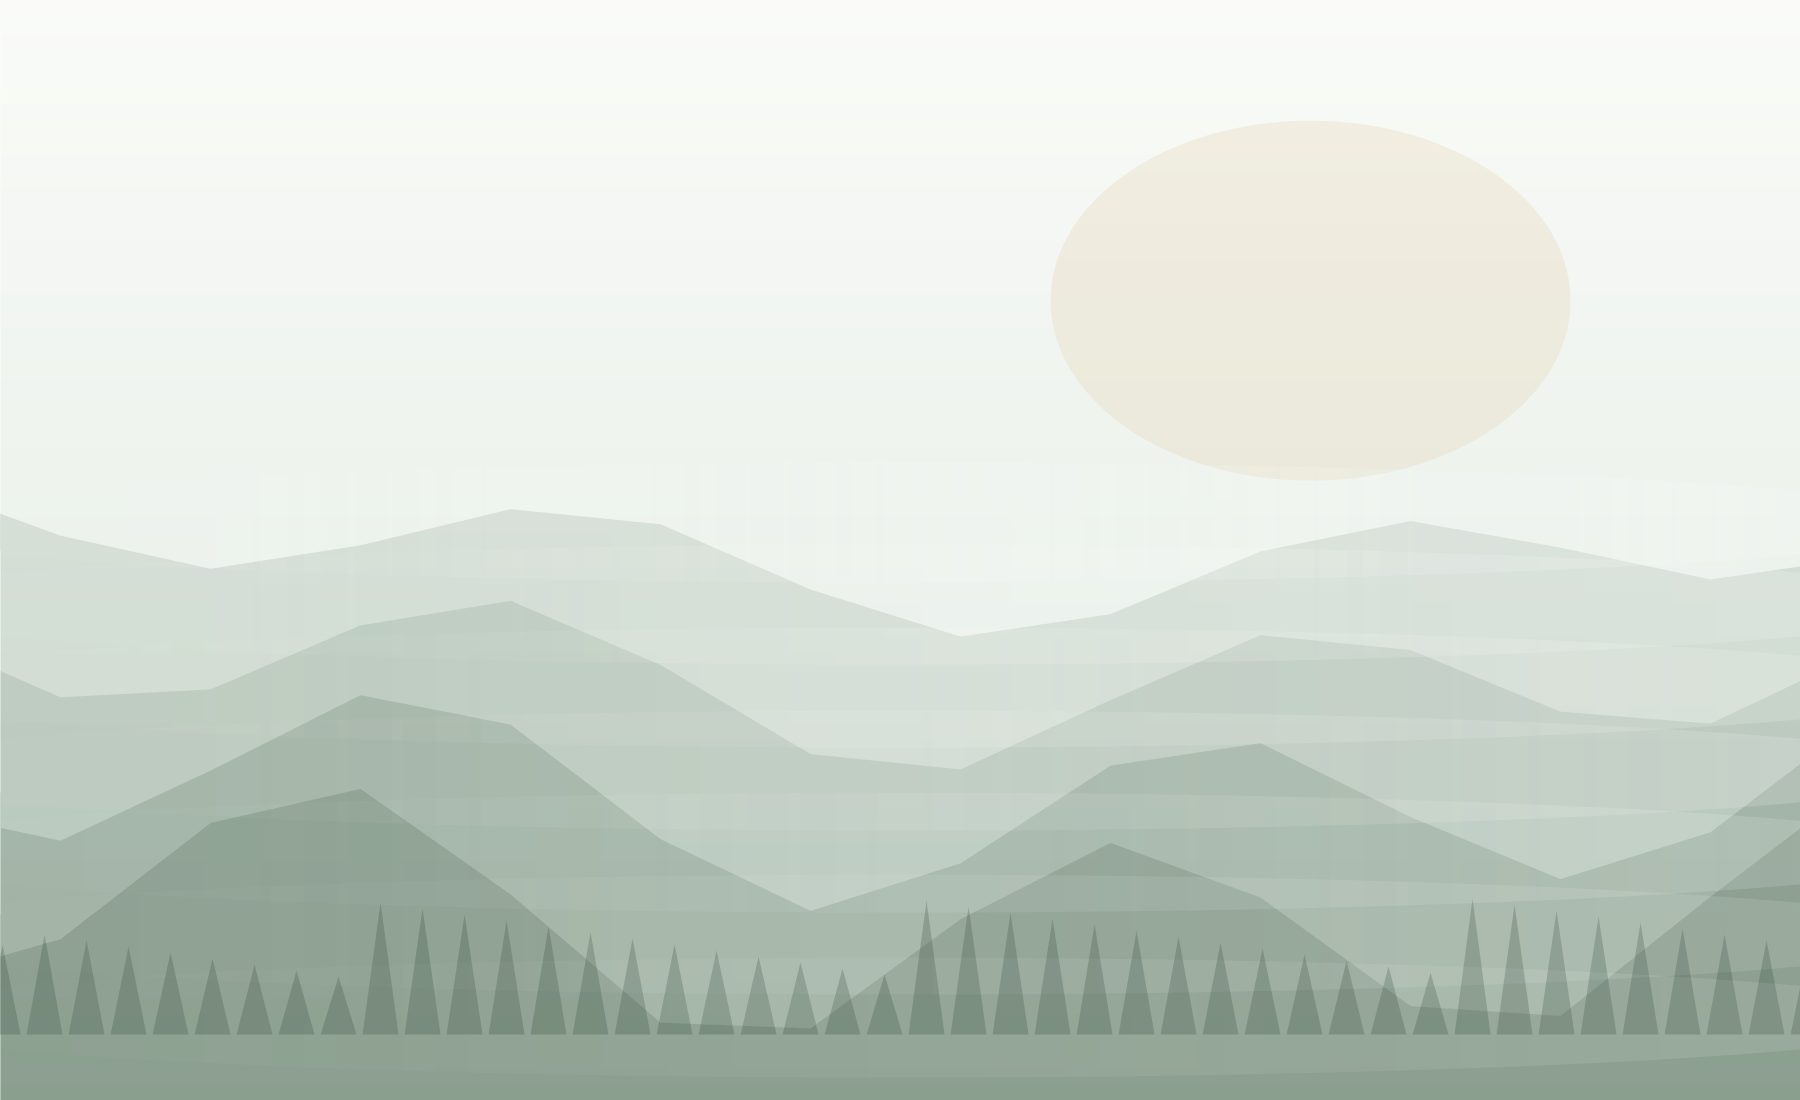
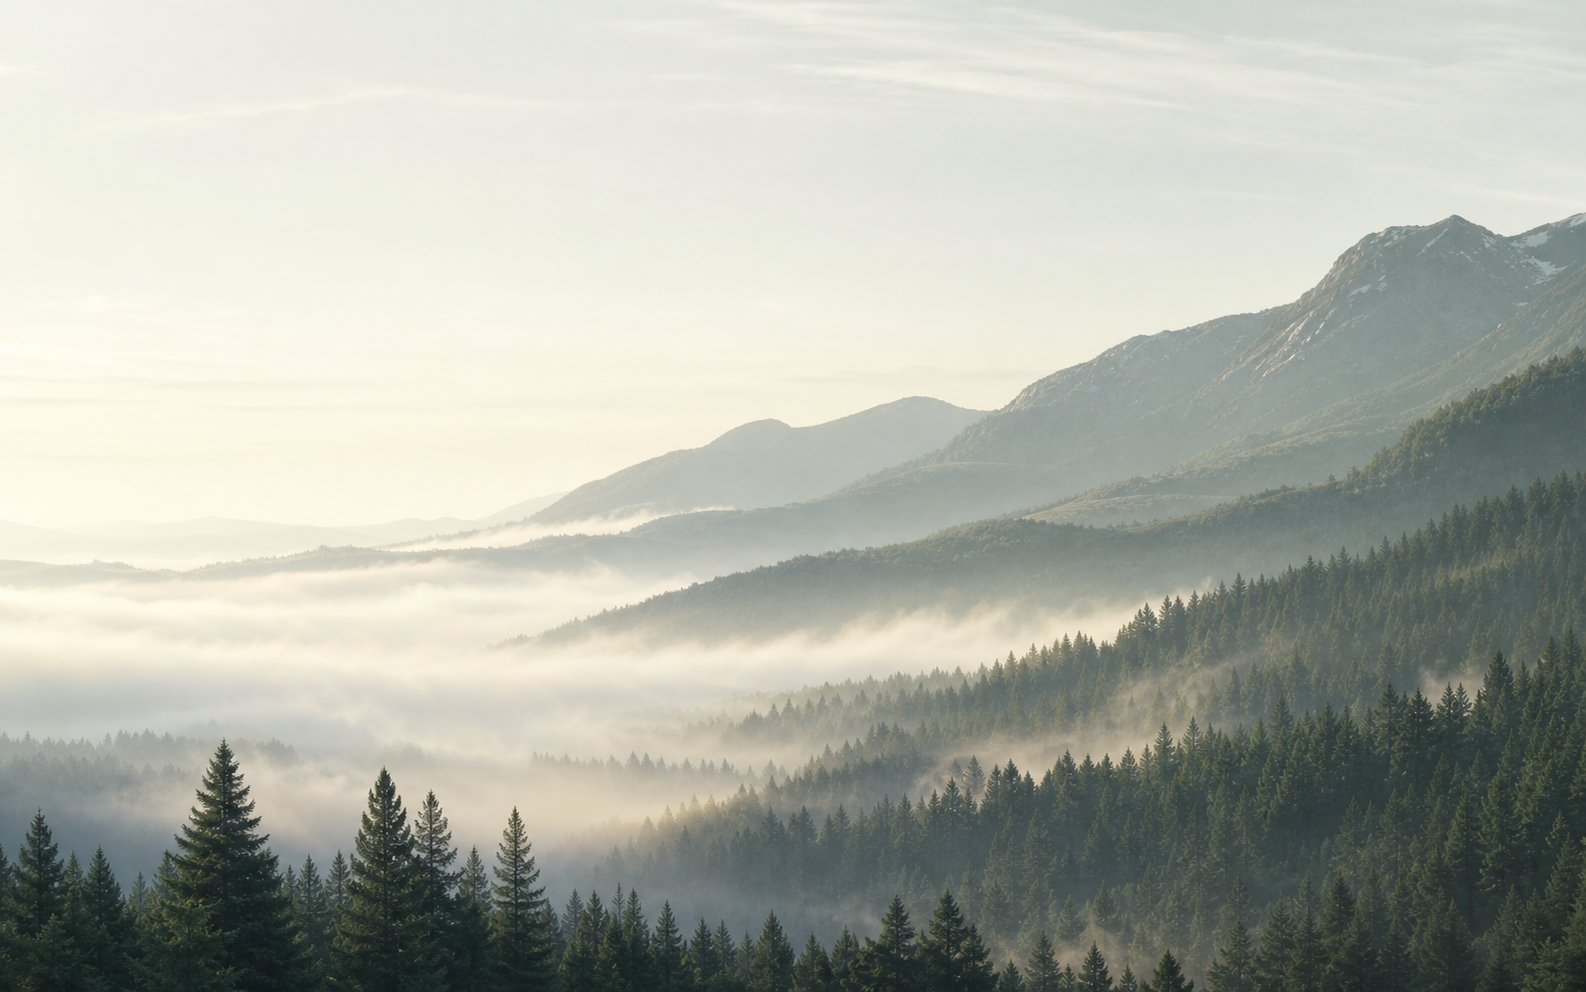
Replace placeholder art with generated Cabin imagery

diff --git a/index.html b/index.html
@@ -95,7 +95,7 @@
         <p>Cabin is built against that interruption. Structure is useful. Ownership matters. Assistance can help. But the writing must stay in the center of the room.</p>
       </div>
       <article class="principle-moment">
-        <img class="moment-image" src="assets/cabin-writing-room.png" alt="" aria-hidden="true">
+        <img class="moment-image" src="assets/cabin-manuscript-detail.png" alt="" aria-hidden="true">
         <div>
           <span>Manuscript</span>
           <h2>Writing comes first.</h2>
@@ -111,7 +111,7 @@
         <img class="moment-image" src="assets/cabin-writing-room.png" alt="" aria-hidden="true">
       </article>
       <article class="principle-moment">
-        <img class="moment-image" src="assets/cabin-writing-room.png" alt="" aria-hidden="true">
+        <img class="moment-image" src="assets/cabin-manuscript-detail.png" alt="" aria-hidden="true">
         <div>
           <span>Ownership</span>
           <h2>Your work stays yours.</h2>
@@ -127,7 +127,7 @@
         <img class="moment-image" src="assets/cabin-writing-room.png" alt="" aria-hidden="true">
       </article>
       <article class="principle-moment">
-        <img class="moment-image" src="assets/cabin-writing-room.png" alt="" aria-hidden="true">
+        <img class="moment-image" src="assets/cabin-manuscript-detail.png" alt="" aria-hidden="true">
         <div>
           <span>Editor</span>
           <h2>AI may question the work. It does not author it.</h2>

diff --git a/styles.css b/styles.css
@@ -1138,7 +1138,7 @@ p {
 .not-found-panel {
   background:
     linear-gradient(90deg, rgba(252,252,250,0.94), rgba(252,252,250,0.70)),
-    url("assets/cabin-mountain-morning.png") center right / cover no-repeat;
+    url("assets/cabin-fog-path.png") center right / cover no-repeat;
   border: 1px solid var(--outline);
   box-shadow: var(--shadow-deep), var(--inset-soft);
   overflow: hidden;